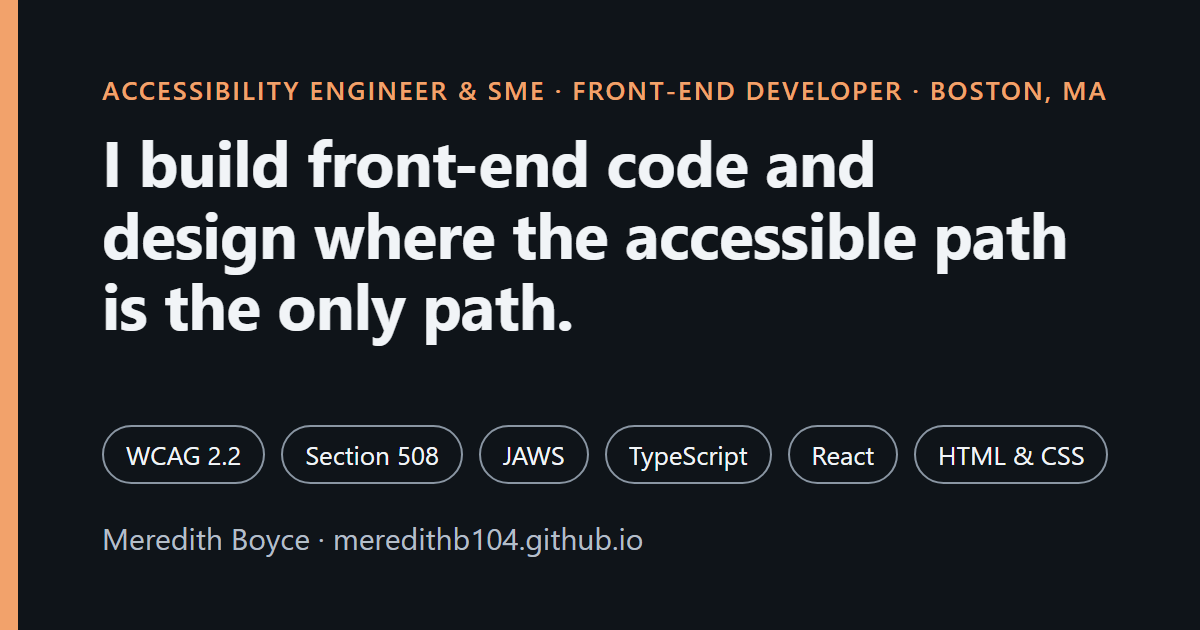
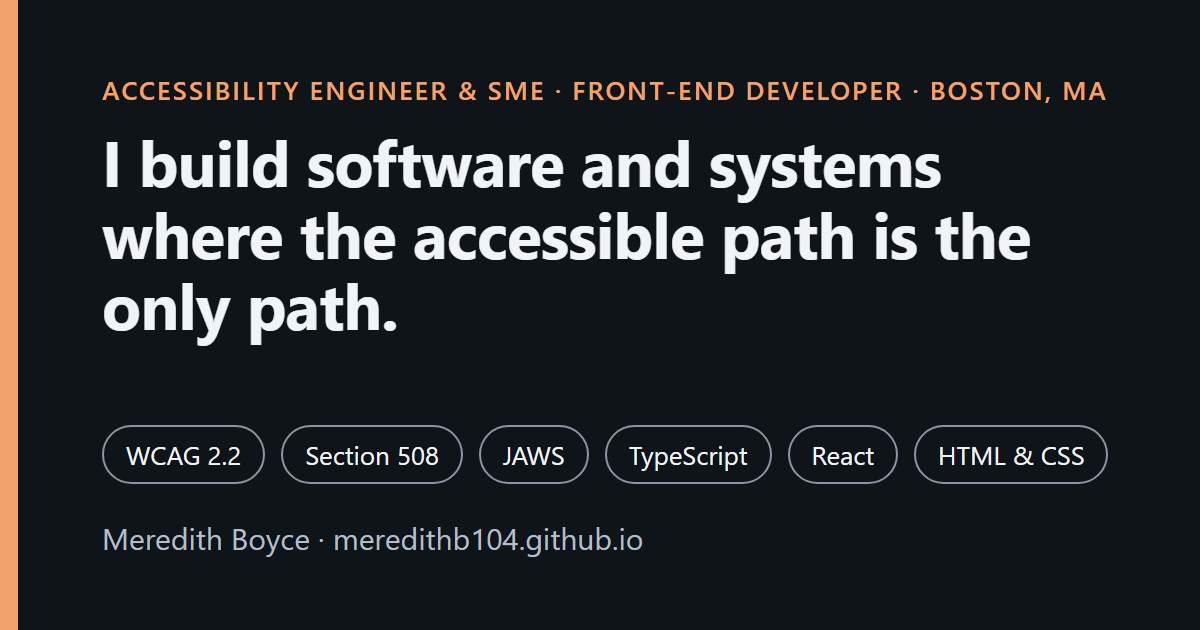
Hero copy from Meredith; headline is now software and systems

Changed region(s): [[0.0617, 0.3317, 0.8942, 0.5429], [0.2467, 0.2111, 0.8017, 0.3317]]

diff --git a/index.html b/index.html
@@ -15,7 +15,7 @@
     <meta property="og:title" content="Meredith Boyce, accessibility engineer" />
     <meta
       property="og:description"
-      content="Meredith Boyce audits against WCAG 2.2 and builds front-end code and design where the accessible path is the only path. TypeScript, React, HTML, CSS."
+      content="Meredith Boyce audits against WCAG 2.2 and builds software and systems where the accessible path is the only path. TypeScript, React, HTML, CSS."
     />
     <meta property="og:url" content="https://meredithb104.github.io/" />
     <meta property="og:image" content="https://meredithb104.github.io/og-card.png" />
@@ -23,7 +23,7 @@
     <meta property="og:image:height" content="630" />
     <meta
       property="og:image:alt"
-      content="Meredith Boyce, accessibility engineer. I build front-end code and design where the accessible path is the only path. WCAG 2.2, TypeScript, React, HTML, CSS."
+      content="Meredith Boyce, accessibility engineer. I build software and systems where the accessible path is the only path. WCAG 2.2, TypeScript, React, HTML, CSS."
     />
     <meta name="twitter:card" content="summary_large_image" />
     <link rel="icon" href="/favicon.svg" type="image/svg+xml" />
@@ -64,14 +64,14 @@
       <section class="hero" aria-labelledby="hero-h">
         <div>
           <p class="eyebrow">WCAG 2.2 accessibility engineer · Accessibility SME · Front-end developer · Boston, MA</p>
-          <h1 id="hero-h">I build front-end code and design where the accessible path is the only path.</h1>
+          <h1 id="hero-h">I build software and systems where the accessible path is the only path.</h1>
         </div>
         <p class="lede measure">
-          I'm Meredith Boyce, an accessibility engineer and front-end developer. For more than six years I have
-          tested web, mobile, and digital content against WCAG 2.2 AA, Section 508, ADA Title II, and ARIA, most
-          recently as the accessibility subject-matter expert for MassDOT Digital Services. I'm blind. Because I use
-          JAWS and a braille display all day, I find the same dozen mistakes simply by using the product. Then I
-          write the remediation, and then I write the TypeScript, HTML, and CSS that pass the audit before it begins.
+          I'm Meredith Boyce, an accessibility engineer who can also write the code she audits. I have spent six-plus
+          years testing web, mobile, and digital content against WCAG 2.2 AA, Section 508, ADA Title II, and ARIA,
+          most recently as the embedded accessibility SME for MassDOT's digital services. I'm blind: I use JAWS and a
+          braille display all day, every day. I frequently find the same dozen mistakes by using a product, I write
+          the remediation, and then I write the code that passes the audit before it starts.
         </p>
         <ul class="facts" role="list" aria-label="At a glance">
           <li>6+ years accessibility QA</li>
